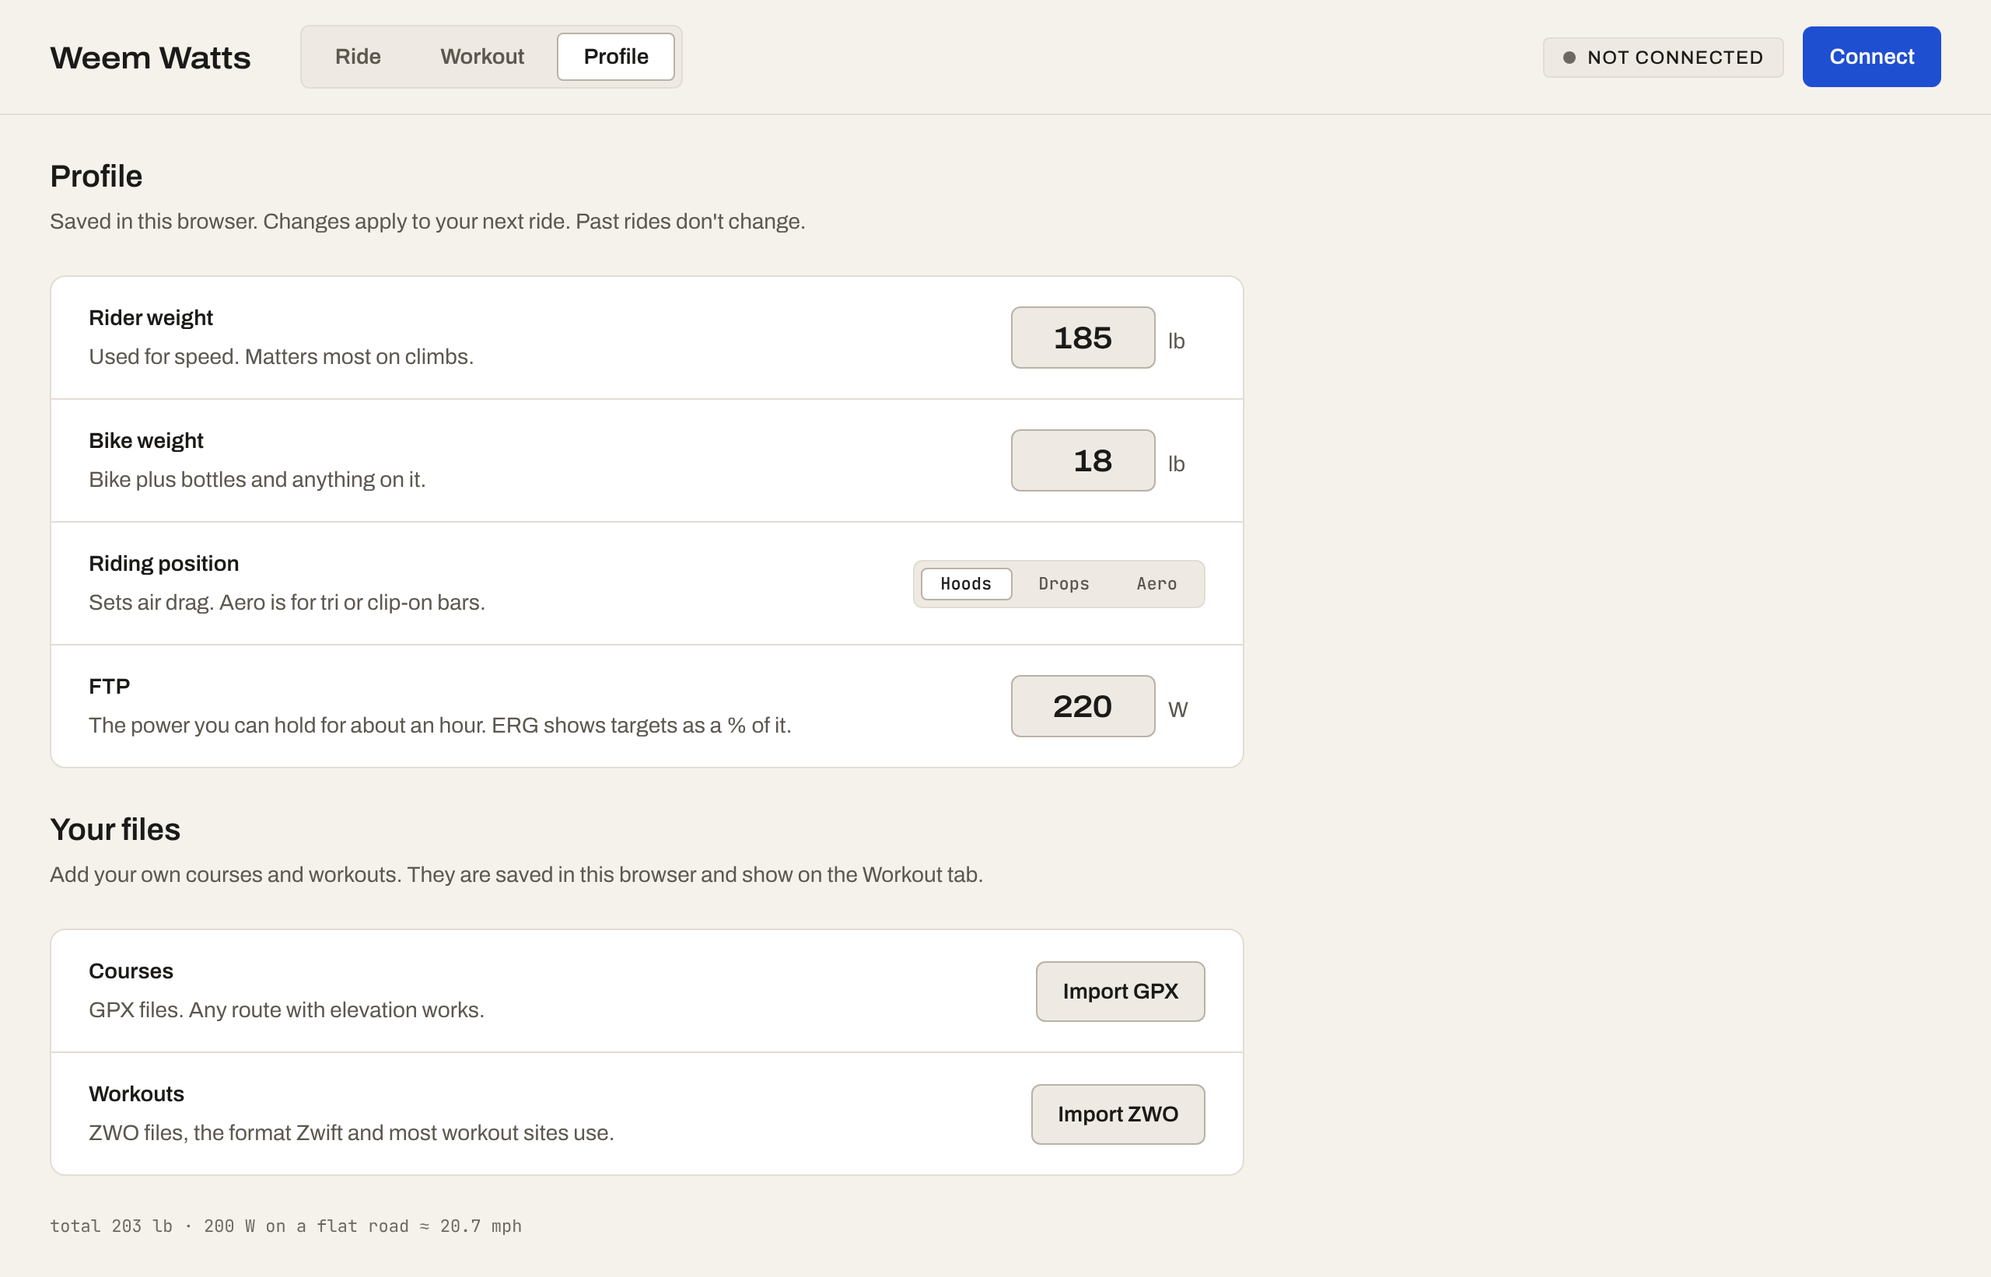
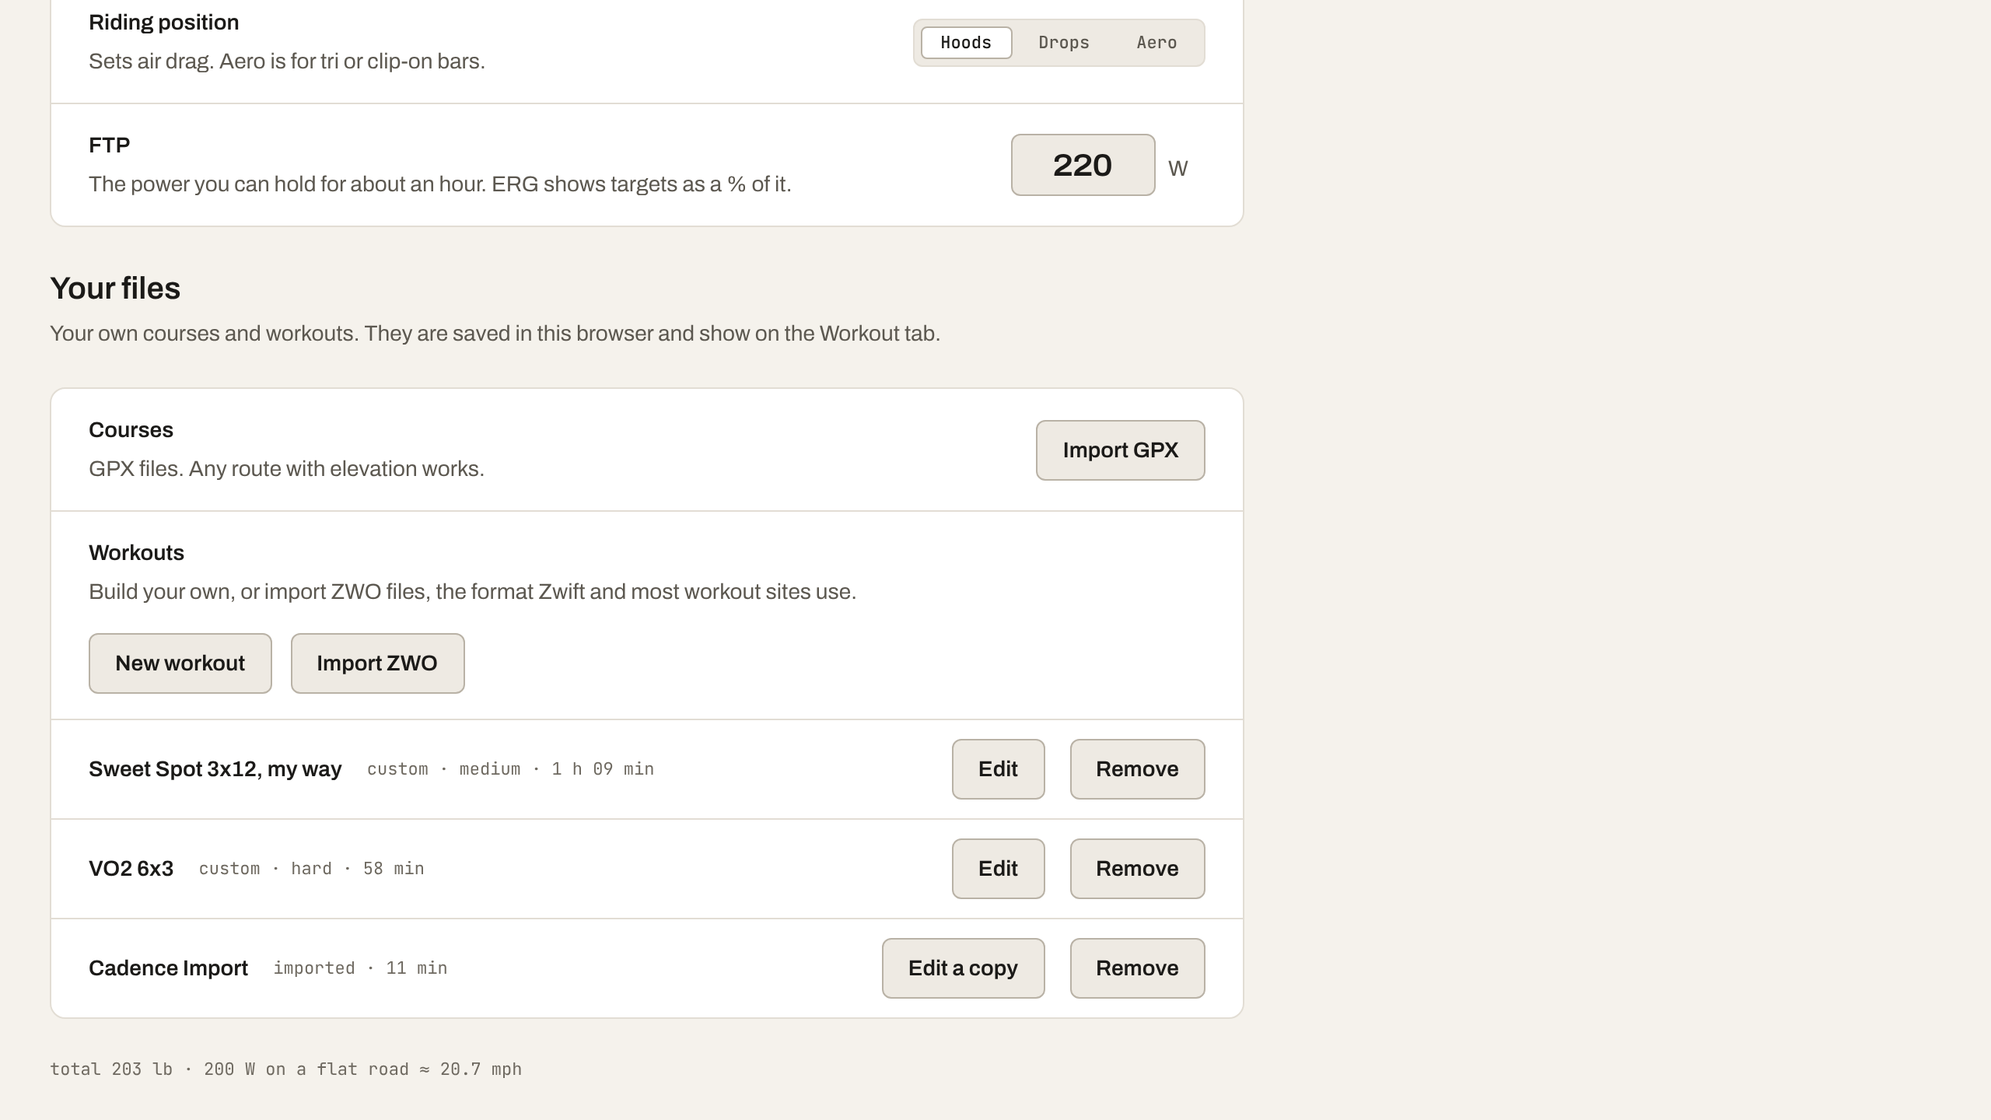
docs: workout builder decisions, README, scope, DESIGN and screenshots
Claude-Session: https://claude.ai/code/session_01Fy45Q5RpT8Z5DRRNkBTc4N

diff --git a/docs/workout-builder.md b/docs/workout-builder.md
@@ -1,0 +1,108 @@
+# Workout builder
+
+Built Nov 20, 2026, ahead of the v3.2 ride test at Nate's request. Research: `docs/workout-builder-research.md`. Reference screenshots: `docs/builder-screenshots/` (interaction ideas only; the look is DESIGN.md).
+
+## What was built
+
+Option S from the research: a step-list editor, not a drag canvas.
+
+- **Builder page** at `#/workout/build`. Name, difficulty (easy, medium, hard), description, a live strip (`WorkoutStrip`), total time, interval count, and one row per step.
+- **Steps:** steady, ramp, and repeat (one level, any number of inner steps). Per step: time, target, optional cadence in rpm, optional label.
+- **Typing:** time takes `12` (minutes), `12:00`, `90s`, `1h30`, `1:30:00`. Target takes `90` or `90%` (% FTP) and `225w` (watts). Leaving a field tidies it (`12` becomes `12:00`). Beside each target the row shows the zone and the other unit at the rider's current FTP.
+- **Actions:** add, edit, reorder (↑ ↓), duplicate (Copy) and delete, for steps and repeats. Keyboard: every control is a Tab stop; Alt + ↑ / ↓ moves a row, Ctrl + D duplicates it, focus stays with the row.
+- **New, Edit, Edit a copy, Remove.** Any workout (built-in, imported, custom) can be copied into an editable one. Only custom workouts can be edited or removed.
+- **Entry points:** step 2 of the Workout tab (New workout in the filter row; Edit and Edit a copy in the selected workout's detail card) and Profile, Your files (New workout; Edit or Edit a copy and Remove per row).
+- **Save** returns to step 2 with the workout selected. **Cancel** returns to where the rider came from.
+- **Drafts:** every change is written to `localStorage` at once. A reload or a tab switch loses nothing. Cancel on unsaved work asks a second time.
+- **Storage:** the app's own step list in a new IndexedDB table, `customWorkouts` (Dexie version 4). Rides, samples, courses and imports are untouched.
+- **Cadence, end to end:** `cadenceRpm` on steps and intervals; ZWO import reads `Cadence` (and `CadenceResting` on `IntervalsT`); the builder edits it; the Ride tab shows it in the workout row and in the Cadence tile ("target 90 rpm · on / under / over", within 5 rpm). It is never sent to the trainer.
+- **Limits:** the same as an imported file, through `validateWorkout`: 2,000 intervals, 6 hours, targets up to 500% or 2,500 W.
+- **Mid-ride:** the builder is locked, like the rest of the Workout tab.
+- **Crash recovery:** a ride on a custom workout stores a copy of the workout with the ride. Recovery uses that copy, so editing or deleting the workout in another tab can't break a ride in progress.
+
+## Files
+
+| File | Job |
+| --- | --- |
+| `src/lib/workout.ts` | `cadenceRpm` on steps and intervals, `custom` source, `countIntervals` |
+| `src/lib/zwo.ts` | Reads `Cadence` and `CadenceResting` |
+| `src/lib/customWorkouts.ts` | Cleans stored rows, save with conflict check, remove, ride snapshots |
+| `src/lib/workoutDraft.ts` | Draft model, field parsing, `checkDraft`, the draft store |
+| `src/lib/recorder.ts` | Dexie v4 `customWorkouts` table, `workoutSnapshot` on a ride |
+| `src/lib/ride.ts` | `saveCustomWorkout`, `getWorkout`, cross-tab list sync, snapshot in recovery |
+| `src/components/WorkoutBuilder.tsx` | The page, `StepRow`, `RepeatGroup` |
+| `src/components/TextField.tsx` | Text field used by the builder |
+
+## Judgment calls
+
+| Call | Why |
+| --- | --- |
+| Route `#/workout/build`, Workout tab stays current | The research suggested a path under Profile "for example". Save lands on step 2 of the Workout tab, so the builder sits under that tab. |
+| New workout button in step 2's filter row | The brief asks for an obvious way in from step 2. DESIGN.md bans import buttons there, not this; DESIGN.md is updated. |
+| Explicit Steady / Ramp control per row | The research named it. A single field that reads `50-75` as a ramp would be faster but harder to discover. |
+| New steps come prefilled (5:00 at 75%; ramp 10:00, 50 to 75%; repeat 3 x 5:00 at 100% and 3:00 at 50%) | A row is valid the moment it exists, the strip draws at once, and fields select their content on focus so typing replaces it. |
+| Difficulty defaults to Medium | A tag is required for the filters. Medium is the least wrong guess. |
+| A bare number is minutes for time and % for targets | Matches the research; the hint line under the list says so. |
+| A step inside a repeat moves out when moved past either end | Gives a way out of a repeat without drag. There is no move into a repeat; use Add step to repeat. |
+| Builder holds 500 step rows at most | A longer workout is not hand-editable and slows the page. Imports of up to 2,000 intervals still ride; a copy of one over 500 steps is refused with a message. |
+| Repeat count field: 1 to 999 | The 2,000-interval limit is the real cap; 999 keeps the field to 3 digits of sense. |
+| Cadence range 30 to 200 rpm | Outside that is a typo. Imported values outside it are dropped. |
+| `CadenceResting` is read on import | The research put it in M, but it is one attribute and without it the off phase of every imported interval set would show no target. |
+| Cadence shown in two places | The research said the Cadence tile; the brief said the workout row. Both are done. The row shows a Cadence column for the whole workout when any interval has a cue, so the row never shifts mid-ride. |
+| Cadence tint is on the small "target" text, not the big number | "Calm while riding." The word on, under or over is always there, so color is not the only signal. |
+| Alt + ↑ / ↓ and Ctrl + D pulled in from option M | The brief requires every action to work by keyboard; these make reorder and duplicate one keystroke. |
+| Removing a custom workout asks twice | A built workout can't be re-imported. Imported files keep the one-click Remove. |
+| A copy of the ramp test becomes a normal workout | The ramp-test behavior (fail detection, FTP estimate) belongs to the built-in. |
+| Save conflict: stop and offer Overwrite or Save as a copy | Two tabs editing the same workout must not silently lose one edit. |
+| A workout deleted in another tab is recreated by a later Save | The rider pressed Save on purpose. |
+| The draft is shared by all tabs (one `localStorage` key) | Simple. A tab is told when the draft changed elsewhere; the last change wins. |
+| Opening something else over an unsaved draft asks: keep or discard | Never throws work away silently. |
+| IndexedDB unavailable: Save fails with a message, draft stays | No pretend save. The draft still survives a reload through `localStorage`. |
+| Ride snapshot only for custom workouts | Built-ins and imports can't be edited; their recovery path is unchanged. |
+
+## Defaults chosen for the research's open questions
+
+1. **Phase.** Built now, at Nate's request, ahead of the v3.2 ride test. Recorded in CLAUDE.md and the scope doc.
+2. **Backup.** No ZWO export. Custom workouts live in this browser only; clearing site data deletes them. This is option S as written. Export is the first thing to add if this worries you (about half a day).
+3. **Entry point.** The detail card in step 2 carries Edit and Edit a copy, and the filter row carries New workout. The brief required a way in from step 2.
+4. **Low cadence.** The editor warns under 60 rpm ("ERG may let go"). The 50 / 60 rpm release rule is unchanged.
+5. **TSS / IF.** Still cut, as in v3.2.
+6. **Free ride inside a workout.** Not built. Riding before Start workout is already a free ride.
+7. **intervals.icu text syntax.** Not built.
+
+## Conflicts between the research and the repo
+
+- **Phase rule.** CLAUDE.md says stay in phase and the research said to wait. Nate overruled both in the brief. CLAUDE.md now records the exception.
+- **"No import buttons" on the Workout tab.** Kept. The new buttons open the builder; none imports a file. DESIGN.md says so.
+- **Danger button hover.** The existing `danger` hover (`line` background) put the red text at 4.3:1. It now goes to `surface` (5.9:1). This also applies to Confirm end on the Ride tab.
+
+## What was cut, and pushback
+
+- **From the research's S list: nothing.**
+- **Not built (M and L):** free-ride steps, timed text cues, ZWO export, TSS / IF / NP, cadence ranges, a text syntax, a drag graph, undo, snippets, nested repeats, FIT workout-step messages.
+- **Pushback:** ZWO export is the one cut I would reverse first. Without it a browser-data wipe takes every custom workout with it.
+- **No new dependencies.**
+
+## Also fixed along the way
+
+- A workout imported (or saved) in the first moments after page load was dropped from the list until a reload. The loaded list is now merged with anything added meanwhile.
+- `validateWorkout` expanded repeats before counting them, so a stored repeat of a trillion would hang the page. It now counts first.
+- The Ride tab's workout row stays on one line at desktop width; the name truncates instead of the button wrapping.
+
+## Checks run (headless Chromium, `?fake=1`)
+
+- `npm run build` passes on every commit. No hex colors outside `src/styles/tokens.css`.
+- Fake trainer: power, cadence, speed and time update about once a second; D, C, S and J still work.
+- Keyboard only: built "10 min warm-up, 3 x 12 min at 90% with 5 min easy, 8 min cool-down" (1:09:00, 8 intervals), saved, reloaded, found under Medium and 1 h, not under Hard or 30 min. Then edited, duplicated (a built-in and a custom one) and deleted.
+- Ride: a short custom workout on a flat road and on Test Hills. ERG followed every step and the ramp; the cadence cue read on, under and over; the cadence cue changed nothing the trainer did. The Ride tab fits 1280x720 with no scroll in both.
+- FIT: validated with `@garmin/fitsdk` in a scratch folder. No decode errors; 8 laps (the free ride before Start workout, then one per interval); lap time and distance add up to the session.
+- Recovery: workout edited, and deleted, in another tab mid-ride, then a reload. Resume kept the original intervals in both cases and ran to the end.
+- Break-it: empty name, zero and negative times, a 7-hour step, 8 hours in total, 999 x 3 repeats, 3,000 steps planted in storage, a 5,000 W target, pasted junk in number fields, two tabs editing one workout, IndexedDB unavailable. All refused or handled with a message.
+- Widths 1024 to 1920: no page overflow, rows on one line. Text contrast at least 4.5:1 on the builder, step 2 and Profile. Reduced motion: every builder control has a 0 s transition. Focus rings show; Tab order runs left to right, top to bottom.
+
+## Needs a real Kickr ride
+
+- ERG following a custom workout's steps and ramps on the trainer (only the fake trainer was used).
+- Reading the cadence cue from the saddle: is "target 90 rpm · under" in the Cadence tile big enough?
+- A step with a cadence target under 60 rpm: how it feels against the ERG release.
+- Recovery after a real reload mid-workout (Chrome asks to pick the trainer again).

diff --git a/README.md b/README.md
@@ -1,6 +1,6 @@
 # Weem Watts
 
-A free browser app for riding a Wahoo Kickr Core 2. It shows live power, cadence, speed, distance, and time, lets you change resistance or hold a target power (ERG) while riding in one gear, rides GPX courses with an elevation profile, runs structured workouts in ERG (built-ins or imported ZWO files), saves every second to the browser, and exports a FIT file.
+A free browser app for riding a Wahoo Kickr Core 2. It shows live power, cadence, speed, distance, and time, lets you change resistance or hold a target power (ERG) while riding in one gear, rides GPX courses with an elevation profile, runs structured workouts in ERG (built-ins, imported ZWO files, or ones you build in the app), saves every second to the browser, and exports a FIT file.
 
 **Live:** https://weem-watts.vercel.app
 
@@ -57,7 +57,22 @@ The mode is picked for you and you can always switch it on the Ride tab (or pres
 
 Built-ins: Endurance 60, Sweet Spot 3x12, VO2 5x3, a Ramp FTP test, and the ZWO files in `public/workouts/`: FRNKLN - January 6, five 15-minute rides (Quick 15: Recovery Flush, Zone 2 Spin, Ironman Race Pace, Tempo Bursts, Sweet Spot Hit), five 30-minute rides (Easy Street, No Retreat, Iron Will, Red Line, The Caldron), five 45-minute rides (The Road Home, The Grinder, Test of Will, The Crucible Ring, Grit Test), five easy rides (Long Haul III, The Causeway IV, The Levee IV, The Long Road V, Coastal Cruise V), five medium (The Forge IV, Sweat Factory V, Copper Wire IV, Over the Top V, The Rolling Mill V) and five hard (Hour of Power V, The Heat V, The Smelting Pot IV, The Millstone V, Critical Mass IV).
 
-**Your own files:** Import GPX and Import ZWO are on the **Profile** tab, under "Your files". Imports are saved in this browser and listed there with Remove.
+**Your own files:** Import GPX, Import ZWO and **New workout** are on the **Profile** tab, under "Your files". Imports and the workouts you build are saved in this browser and listed there.
+
+### Build a workout
+
+Press **New workout** (step 2 of the Workout tab, or Profile), or open any workout and press **Edit a copy** to start from it.
+
+- One row per step: **Steady** or **Ramp**, a time, a target, an optional cadence and label. **Add repeat** makes a block of steps that runs several times.
+- Time: `12` is minutes; `12:00`, `90s` and `1h30` also work. Target: `90` is % of FTP and follows your FTP; `225w` is watts and stays fixed. Each row shows what the target comes to at your current FTP.
+- Reorder with ↑ ↓, **Copy** and **Delete** on each row. Keys: **Alt + ↑ / ↓** moves the row, **Ctrl + D** duplicates it.
+- The strip and total time update as you type. Pick a difficulty so the filters find it; the Length filter works on its own.
+- **Save** takes you back to step 2 with the workout selected. An unsaved draft survives a reload.
+- **Cadence** is a cue for you. The Ride tab shows it in the workout row and the Cadence tile ("target 90 rpm"); the trainer holds the power either way. Imported ZWO files keep their cadence targets.
+- Limits are the same as for imported files: 6 hours, 2,000 intervals, 500% or 2,500 W.
+- Custom workouts live in this browser only. Clearing site data deletes them; there is no export yet.
+
+Details and decisions: `docs/workout-builder.md`.
 
 To add a built-in ZWO: put the file in `public/workouts/` and add `{ "id": "...", "file": "....zwo" }` to `public/workouts/index.json`. An optional `"tag"` of `easy`, `medium` or `hard` puts it under that Difficulty filter.
 
@@ -138,6 +153,8 @@ If the trainer drops, the app retries every 2 seconds, up to 30 times. After a p
 | `src/lib/recorder.ts` | One sample per wall-clock second to IndexedDB (Dexie); skipped seconds are filled when the gap is 3 s or less |
 | `src/lib/fit.ts` | FIT file writer: records, one lap per workout interval, timer stop / start events around pauses |
 | `src/lib/wakeLock.ts` | Keeps the screen on while riding |
+| `src/lib/customWorkouts.ts` | Workouts built in the app: stored step lists, cleaned and validated on load |
+| `src/lib/workoutDraft.ts` | The workout builder's draft: field parsing, checks, kept in the browser |
 
 Speed comes from power on a flat road, not from the trainer, so it reads the same in any gear. Set your weights and position in **Profile**.
 

diff --git a/Weem Watts App Scope.md b/Weem Watts App Scope.md
@@ -86,7 +86,7 @@ Split into three releases, each rideable on its own.
 - Each interval is a lap in the FIT file
 - Decision reversed (Nov 20, 2026): a workout can now run on a course. A course is where you ride (elevation, speed, distance); a workout is what the trainer does (power targets). Pick one of each, or neither. With both, the workout drives ERG and the course drives speed, distance and the profile; the FIT is a virtual ride with altitude and one lap per interval
 - Decisions (Nov 19, 2026): ~~free rides only (targets on a course are v3.3)~~; step buttons change overall intensity (50 to 150%); ramp test instead of a 20-minute test, with a one-tap "Set FTP"; when the workout ends ERG holds the cool-down watts until End Ride
-- **Cut:** drag-and-drop builder (stretch feature); step-list editor (moved to Later, ZWO import covers custom workouts); TSS, IF and automatic zones
+- **Cut:** drag-and-drop builder (stretch feature); step-list editor (moved to Later, then built Nov 20, 2026: see Workout builder below); TSS, IF and automatic zones
 - **Done when:** ride Sweet Spot 3x12 on the Kickr with ERG changing at each interval, finish a ramp test and set FTP from it, and see one lap per interval in the FIT on Strava
 
 #### v3.3: Race plan on a course
@@ -106,9 +106,15 @@ Since Nov 20, 2026 a workout can run on a course, so the race plan becomes a wor
 - Descents use calculated speed, since the Core 2 can't simulate downhill
 - No app-side gearing needed: the Kickr has a regular cassette, so shifting works normally in SIM mode
 
-### Later: Workout step-list editor
+### Workout builder (built Nov 20, 2026; ride test pending)
 
-Moved out of v3.2 on Nov 19, 2026. ZWO import covers custom workouts for now; build the editor if writing ZWO files gets old.
+Moved out of "Later" on Nov 20, 2026 at Nate's request, ahead of the v3.2 ride test. A step-list editor with cadence cues; decisions and cuts are in `docs/workout-builder.md`.
+
+- Build a workout from nothing, or from a copy of any workout: steady, ramp and repeat steps, time, target in % FTP or watts, cadence cue, label, name, difficulty
+- Saved in the browser as the app's own step list; listed in step 2 of the Workout tab and under "Your files" on the Profile tab
+- Cadence is a cue for the rider (workout row and Cadence tile); ZWO import now reads it. The trainer never gets it
+- **Cut:** ZWO export, free-ride steps, timed text cues, TSS / IF, text syntax, drag graph
+- **Done when:** build a workout by keyboard, ride it on the Kickr with ERG changing at each step, and see one lap per interval in the FIT
 
 ### Later: Strava auto-upload
 

diff --git a/CLAUDE.md b/CLAUDE.md
@@ -2,7 +2,7 @@
 
 Read `Weem Watts App Scope.md` and `DESIGN.md` before any work. Use only DESIGN.md tokens and components. Stay inside the current phase.
 
-- **Current phase:** v3.2, Workouts (built, ride test pending). v1 and v1.5 have shipped. v2 and v3.1 are built; their ride tests are pending (Nate chose to build ahead). Do not start v3.3 until v3.2 has been ride-tested. Exception, Nov 20, 2026: Nate asked for Grade mode (the trainer follows course hills when no workout is picked), which is part of v4; it is built and its ride test is pending too. Movie Mode, Strava auto-upload and the workout step-list editor are unscheduled ("Later" in the scope doc).
+- **Current phase:** v3.2, Workouts (built, ride test pending). v1 and v1.5 have shipped. v2 and v3.1 are built; their ride tests are pending (Nate chose to build ahead). Do not start v3.3 until v3.2 has been ride-tested. Exception, Nov 20, 2026: Nate asked for Grade mode (the trainer follows course hills when no workout is picked), which is part of v4; it is built and its ride test is pending too. Second exception, Nov 20, 2026: Nate asked for the workout builder (the step-list editor from "Later", with cadence cues); it is built ahead of the v3.2 ride test and its own ride test is pending. See `docs/workout-builder.md`. Movie Mode and Strava auto-upload are unscheduled ("Later" in the scope doc).
 - **Units:** lb, miles and feet everywhere a person reads them (UI and config). Never show kg, km or meters. SI stays inside `src/lib` (physics, course, FIT) and is converted at display.
 - **Colors:** hex values live only in `src/styles/tokens.css`.
 - **Code reuse:** MIT or Apache-2.0 only (GPX Rider, Croissant Ride, serpentine). Keep license notices in copied files. Never copy from AGPL repos (Auuki, OpenRadlr) or unlicensed repos (ride-hud).
